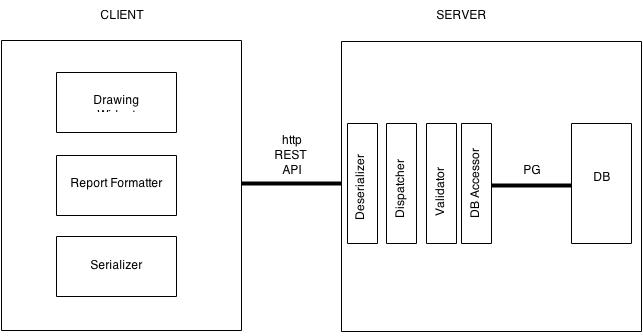
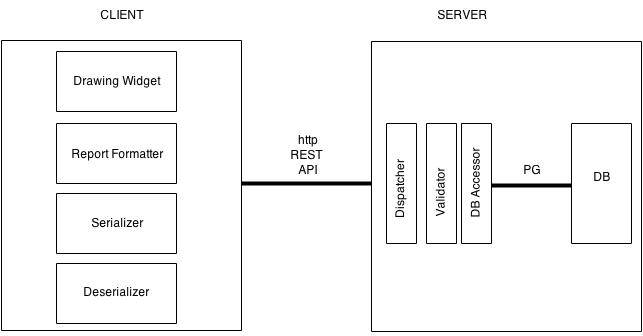
PDF Updated

diff --git a/HighLevelDesign/Diagrams.tex b/HighLevelDesign/Diagrams.tex
@@ -6,7 +6,7 @@
     \end{figure}
     
 \chapter{Modular Design}
-In this more detailed architecture design you can see the different modules in both the client and server sides.  The Client is made up of the Drawing Widget, Report Formatter, and Serializer while the Server is made up of the Deserializer, Dispatcher, Validator, DB Accessor and the DB.  The Drawing Widget contains everything needed for the user, author or student, to draw out either the question, answer or solution to a question that is displayed on the screen.  The Report Formatter is only used by the instructor user and takes the information that it receives from the database to compile a report on the students for the instructor to view.  The Serializer, is used for packaging and submitting the question and answer from the user to the server through http sending as a string.  On the Server side, the Deserializer is used to take what was sent from the client and undo the serialization that was used when sending information to the server.  The Dispatcher takes the information from the Server and packages the information to be sent to the client side of the system.  The Validator is used when a student submits an answer to a question to check the answer for correctness, and generate feedback to the student.  The DB Accessor is responsible for handling all of the requests made to send or receive information from the database.  Finally the DB is the database that contains the question bank, the student responses and assignments.  
+In this more detailed architecture design you can see the different modules in both the client and server sides.  The Client is made up of the Drawing Widget, Report Formatter, and Serializer while the Server is made up of the Deserializer, Dispatcher, Validator, DB Accessor and the DB.  The Drawing Widget contains everything needed for the user, author or student, to draw out either the question, answer or solution to a question that is displayed on the screen.  The Report Formatter is only used by the instructor user and takes the information that it receives from the database to compile a report on the students for the instructor to view.  The Serializer, is used for packaging and submitting the question and answer from the user to the server through http sending as a string.  The Deserializer is used to take what was sent from the server and undo the serialization that was used when sending information to the server.  On the Server side, the Dispatcher takes the information from the Server and packages the information to be sent to the client side of the system.  The Validator is used when a student submits an answer to a question to check the answer for correctness, and generate feedback to the student.  The DB Accessor is responsible for handling all of the requests made to send or receive information from the database.  Finally the DB is the database that contains the question bank, the student responses and assignments.    
  
                         \begin{figure}[H]
             \centerline{\includegraphics[height=5cm, width=10cm]{Modular.jpg}}
@@ -14,14 +14,15 @@ In this more detailed architecture design you can see the different modules in b
     \end{figure}
     
     \chapter{Client}
-   This is the diagram for the Client module. The following are the methods contained in it. openAssignment() is used by both students and instructors to open an assignment. It calls sendPageRequest() and renderPage() to render the page. createAssignment() is used by an instructor to create an assignment. openQuestion() is used by all three users, the authors, the instructors, and the students to open a question. It uses the render methods to render the page. The createQuestion() method is used by an author to create a question. drawDiagram() is used by both authors when creating the diagram and students when answering it. It uses the methods in DrawingWidget. placeEntity() to place the entities in the diagram, placeRelation() to place the relations in the diagram, and addText() to add text to the diagram. submitAnswer() is used to submit a diagram and calls sendToSerial() in DrawingWidget which uses the Serializer methods createSerialString() to convert the diagram into a string format, and sendString() to send this string to the server. openReport() is used by an instructor to view the student reports. The methods in ReportFormatter are used, collectStudentReports() retrieves the reports from the server, formatReports() formats the reports to be viewed, and render() renders the webpage.  
+This is the diagram for the Client module. The following are the methods contained in it. openAssignment() is used by both students and instructors to open an assignment. It calls sendPageRequest() and renderPage() to render the page. createAssignment() is used by an instructor to create an assignment. openQuestion() is used by all three users, the authors, the instructors, and the students to open a question. It uses the render methods to render the page. The createQuestion() method is used by an author to create a question. drawDiagram() is used by both authors when creating the diagram and students when answering it. It uses the methods in DrawingWidget. placeEntity() to place the entities in the diagram, placeRelation() to place the relations in the diagram, and addText() to add text to the diagram. submitAnswer() is used to submit a diagram and calls sendToSerial() in DrawingWidget which uses the Serializer methods createSerialString() to convert the diagram into a string format, and sendString() to send this string to the server. openReport() is used by an instructor to view the student reports. The methods in ReportFormatter are used, collectStudentReports() retrieves the reports from the server, formatReports() formats the reports to be viewed, and render() renders the webpage.  When diagrams are sent back to the client from the server they go through the Deserializer which calls the methods, recieveString() when the string is passed back from the server and then unpackSerialString() to unpack the string back into a diagram.
+  
                         \begin{figure}[H]
             \centerline{\includegraphics[height=5cm, width=10cm]{Client.jpg}}
             \caption{Client Diagram}
     \end{figure}
     
     \chapter{Server}
-    The server plays a huge role in our system, it is in charge in keeping connection with the Client and the database. The Deserializer will take the serialized string that was sent from the client and then unpack the serialized string for use by the server.  The Dispatcher will process the question submitted by the user and request its validation with the validator. Then, the validator checks whether the question submitted by the student is actually right or not, by going to the database accessor. Moreover, when validator check if a question is right or not, it sends a customized feedback for that particular question.
+The server plays a huge role in our system, it is in charge in keeping connection with the Client and the database. The Dispatcher will process the question submitted by the user and request its validation with the validator. Then, the validator checks whether the question submitted by the student is actually right or not, by going to the database accessor. Moreover, when validator check if a question is right or not, it sends a customized feedback for that particular question.
 The server also is able to update a particular question in the database that has been saved by the author. 
 
                         \begin{figure}[H]
